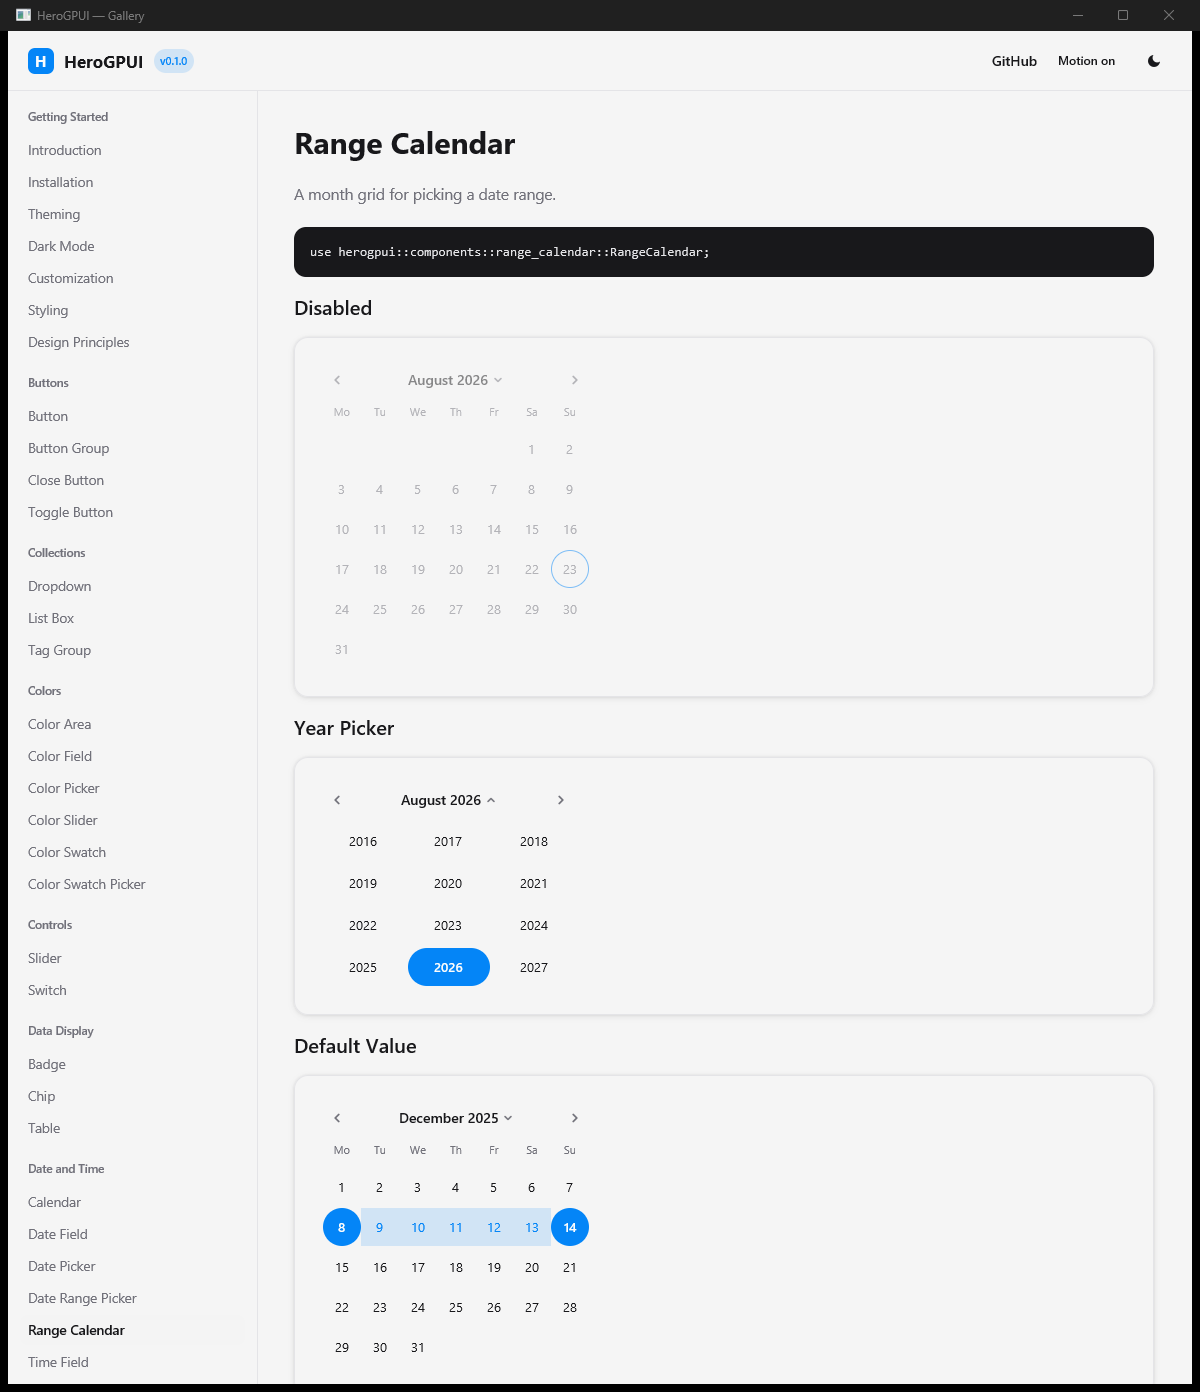
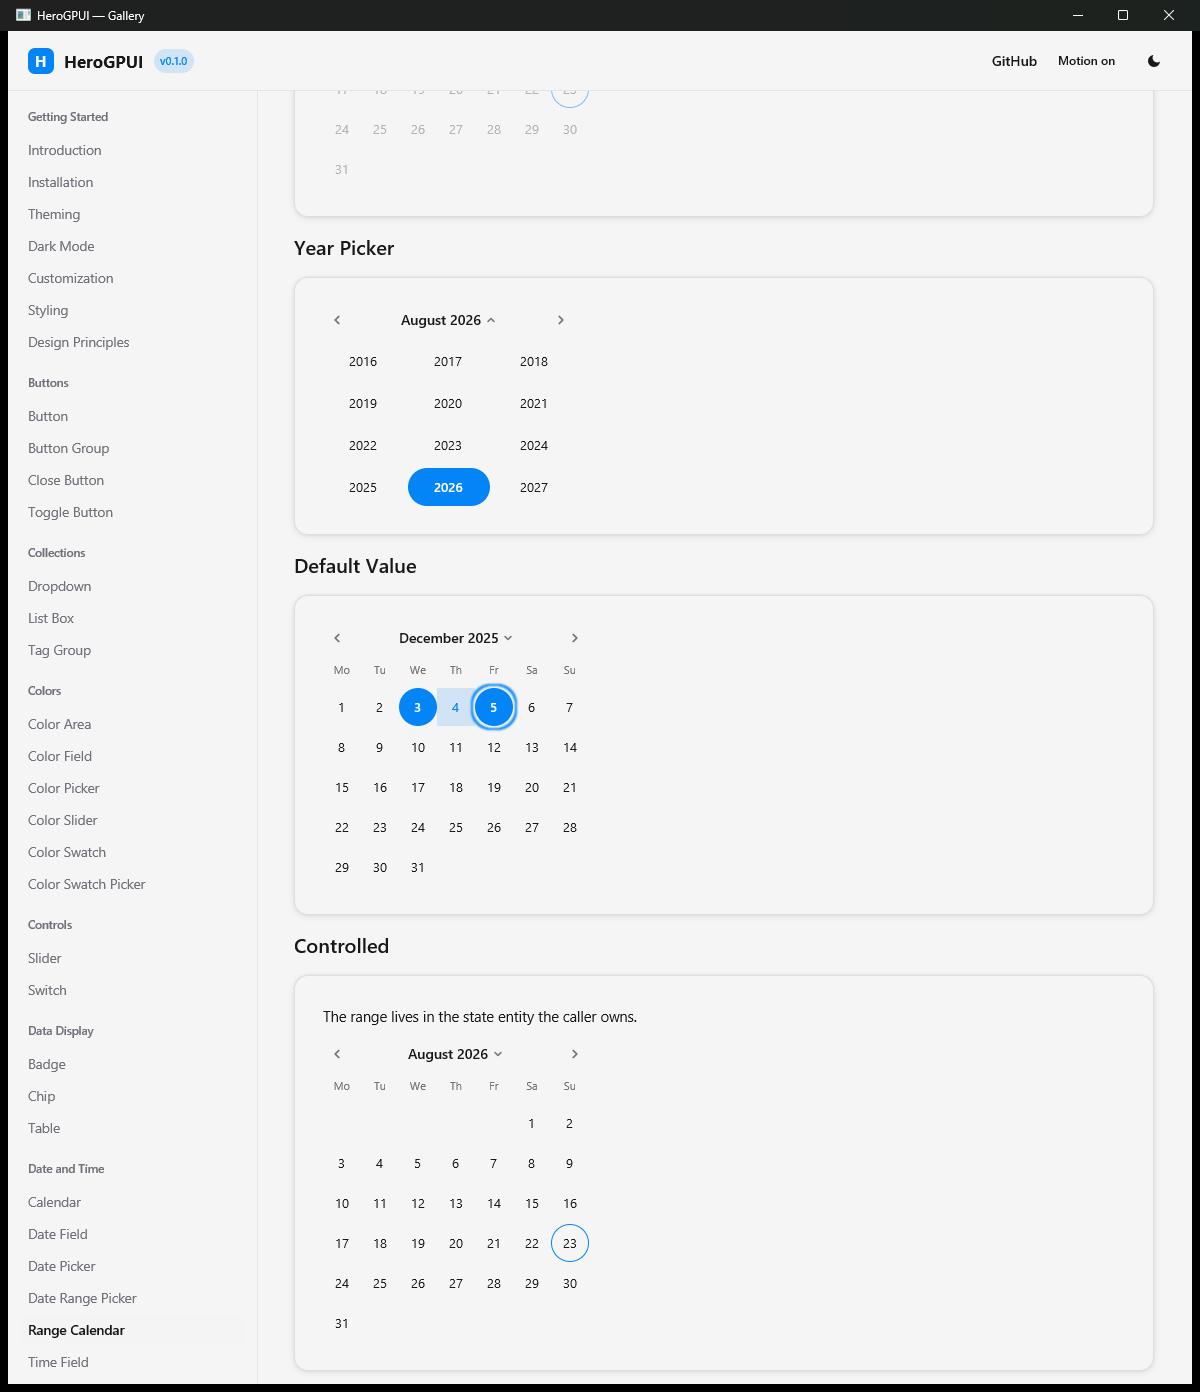
RangeCalendar answers the keyboard, and disabled controls leave the tab order
The RangeCalendar drew the focus ring but had no keys to move it. It has the
Calendar's now -- arrows by a day and a week, Page Up/Down by a month, Home and
End, and Enter picking: the first press sets the range's start, the second its
end, which is what a click already did. `month_step` is shared rather than
written twice.

Verified by driving it: click the 3rd, Right, Right, Enter, and the range reads
3-5 with the ring on the 5th.

Finding it needed a second fix first. Tabbing onto that page landed on the
*disabled* demo, because `track_focus` was applied whether or not the control
was disabled -- so the keyboard appeared broken while it was in fact focused on
something that cannot move. Every control gates it now: the two calendars, the
switch, the checkbox, the radio options, the tags, the accordion triggers, the
pagination pages, the tabs, the date picker trigger, the colour area, trigger
and swatches, and the OTP.

diff --git a/crates/herogpui-components/src/range_calendar.rs b/crates/herogpui-components/src/range_calendar.rs
@@ -13,7 +13,9 @@ use gpui::{
 use herogpui_theme::ActiveTheme;
 
 use crate::{
-    calendar::{days_from_civil, days_in_month, month_name, weekday_index, Date},
+    calendar::{
+        add_days, days_from_civil, days_in_month, month_name, month_step, weekday_index, Date,
+    },
     calendar_view::{self, PageBehavior, SelectionAlignment, VisibleDuration},
     date_constraints::{DateConstraints, Weekday},
     date_picker::DateRangeState,
@@ -237,6 +239,10 @@ struct Frame<'a> {
     today: Date,
     interactive: bool,
     base: &'a str,
+    /// The date wearing the focus ring: `focusedValue` when the caller controls
+    /// it, otherwise wherever the arrow keys have walked to. `None` while the
+    /// grid does not hold the keyboard.
+    focused: Option<Date>,
 }
 
 impl RangeCalendar {
@@ -318,7 +324,7 @@ impl RangeCalendar {
         // `.range-calendar__cell` takes `status-focused` -- a ring, not a border,
         // which would shrink the cell as the cursor arrived.
         let mut cell =
-            util::with_focus_ring(cell, self.focused_value == Some(date), true, Vec::new(), cx);
+            util::with_focus_ring(cell, frame.focused == Some(date), true, Vec::new(), cx);
 
         if !selectable {
             cell = cell.text_color(colors.muted);
@@ -501,6 +507,17 @@ impl RenderOnce for RangeCalendar {
             self.default_year_picker_open,
         );
 
+        // The grid is one tab stop with a cursor inside it, as the Calendar's is.
+        // `use_keyed_state` takes `cx` mutably, so both precede the theme.
+        let grid_focus =
+            util::tab_stop_handle(ElementId::Name(format!("{base}-focus").into()), window, cx);
+        let cursor = window.use_keyed_state(
+            ElementId::Name(format!("{base}-cursor").into()),
+            cx,
+            |_, _| None::<Date>,
+        );
+        let cursor_at = *cursor.read(cx);
+
         let colors = cx.colors();
         let layout = cx.layout();
         let first_day = self.constraints.first_day_of_week;
@@ -520,12 +537,21 @@ impl RenderOnce for RangeCalendar {
             ),
             _ => stored_anchor,
         };
+        // Taking the focus puts the ring where v3 would have focused -- the
+        // range's start, or today.
+        let ring_at = self
+            .focused_value
+            .or(cursor_at)
+            .or(start)
+            .or_else(|| Some(Date::today()))
+            .filter(|_| grid_focus.is_focused(window));
         let frame = Frame {
             start,
             preview_end,
             today: Date::today(),
             interactive: !self.is_disabled && !self.is_read_only,
             base: &base,
+            focused: ring_at,
         };
 
         let months = calendar_view::month_headings(self.duration, anchor);
@@ -654,7 +680,59 @@ impl RenderOnce for RangeCalendar {
             .flex()
             .flex_col()
             .gap(px(8.))
-            .text_color(colors.surface.foreground);
+            .text_color(colors.surface.foreground)
+            .when(!self.is_disabled && !self.is_read_only, |el| {
+                el.track_focus(&grid_focus)
+            });
+
+        // The same keys the Calendar answers, and Enter picks: the first press
+        // sets the range's start, the second its end, which is what `pick` does
+        // for a click.
+        if !self.is_disabled && !self.is_read_only {
+            let held = cursor;
+            let from_start = self.focused_value.or(start).unwrap_or_else(Date::today);
+            let state = self.state.clone();
+            let on_change = self.on_change.clone();
+            let on_focus = self.on_focus_change.clone();
+            let selectable = self.constraints.clone();
+            root = root.on_key_down(move |event, window, cx| {
+                let from = *held.read(cx);
+                let at = from.unwrap_or(from_start);
+                let key = event.keystroke.key.as_str();
+                if matches!(key, "enter" | "space") {
+                    if !selectable.allows(at) {
+                        return;
+                    }
+                    let (next_start, next_end) = state.update(cx, |s, cx| {
+                        s.pick(at);
+                        cx.notify();
+                        (s.start, s.end)
+                    });
+                    if let Some(cb) = &on_change {
+                        cb(next_start, next_end, window, cx);
+                    }
+                    return;
+                }
+                let next = match key {
+                    "left" => add_days(&at, -1),
+                    "right" => add_days(&at, 1),
+                    "up" => add_days(&at, -7),
+                    "down" => add_days(&at, 7),
+                    "pageup" => month_step(at, -1),
+                    "pagedown" => month_step(at, 1),
+                    "home" => Date::new(at.year, at.month, 1),
+                    "end" => Date::new(at.year, at.month, days_in_month(at.year, at.month)),
+                    _ => return,
+                };
+                held.update(cx, |v, cx| {
+                    *v = Some(next);
+                    cx.notify();
+                });
+                if let Some(cb) = &on_focus {
+                    cb(next, window, cx);
+                }
+            });
+        }
 
         if year_picker_open {
             root = root.w(crate::calendar::CALENDAR_WIDTH);

diff --git a/crates/herogpui-components/src/color_picker.rs b/crates/herogpui-components/src/color_picker.rs
@@ -579,7 +579,7 @@ impl RenderOnce for ColorArea {
         // Saturation left-to-right over the hue, brightness bottom-to-top.
         let mut area = div()
             .id(self.id.clone())
-            .track_focus(&area_focus)
+            .when(!self.is_disabled, |el| el.track_focus(&area_focus))
             .relative()
             .w(self.width)
             .h(self.height)
@@ -1618,7 +1618,10 @@ impl RenderOnce for ColorSwatchPicker {
                 .id(ElementId::Name(
                     format!("{:?}-swatch-{index}", self.id).into(),
                 ))
-                .when_some(swatch_focus.get(index), |c, handle| c.track_focus(handle))
+                .when_some(
+                    swatch_focus.get(index).filter(|_| !self.is_disabled),
+                    |c, handle| c.track_focus(handle),
+                )
                 .flex()
                 .items_center()
                 .justify_center()
@@ -1794,7 +1797,7 @@ impl RenderOnce for ColorPicker {
         // Trigger: swatch plus the hex value.
         let mut trigger = div()
             .id(ElementId::Name(format!("{base}-trigger").into()))
-            .track_focus(&trigger_focus)
+            .when(!self.is_disabled, |el| el.track_focus(&trigger_focus))
             .flex()
             .flex_row()
             .items_center()

diff --git a/crates/herogpui-components/src/tabs.rs b/crates/herogpui-components/src/tabs.rs
@@ -182,7 +182,10 @@ impl RenderOnce for Tabs {
                         .id(gpui::ElementId::Name(
                             format!("{base_id}-tab-{}", item.key).into(),
                         ))
-                        .when_some(tab_focus.get(index), |t, handle| t.track_focus(handle))
+                        .when_some(
+                            tab_focus.get(index).filter(|_| !self.is_disabled),
+                            |t, handle| t.track_focus(handle),
+                        )
                         .px(px(14.))
                         .py(px(6.))
                         .rounded(crate::util::control_radius(cx))
@@ -248,7 +251,10 @@ impl RenderOnce for Tabs {
                         .id(gpui::ElementId::Name(
                             format!("{base_id}-tab-{}", item.key).into(),
                         ))
-                        .when_some(tab_focus.get(index), |t, handle| t.track_focus(handle))
+                        .when_some(
+                            tab_focus.get(index).filter(|_| !self.is_disabled),
+                            |t, handle| t.track_focus(handle),
+                        )
                         .px(px(2.))
                         .pb(px(6.))
                         .text_size(px(14.))

diff --git a/crates/herogpui-components/src/calendar.rs b/crates/herogpui-components/src/calendar.rs
@@ -471,7 +471,7 @@ impl Calendar {
 
 /// `date` a month away, clamped to the target month's length -- 31 January plus
 /// a month is the end of February, not the 31st.
-fn month_step(date: Date, delta: i32) -> Date {
+pub(crate) fn month_step(date: Date, delta: i32) -> Date {
     let (year, month) = bump_month(date.year, date.month, delta);
     Date::new(year, month, date.day.min(days_in_month(year, month)))
 }
@@ -968,7 +968,11 @@ impl RenderOnce for Calendar {
             .flex_col()
             .gap(px(8.))
             .text_color(colors.surface.foreground)
-            .track_focus(&grid_focus);
+            // A disabled or read-only grid is not a tab stop: v3 gives it
+            // `pointer-events-none` and nothing to move.
+            .when(!self.is_disabled && !self.is_read_only, |el| {
+                el.track_focus(&grid_focus)
+            });
 
         // v3 drives a calendar from the keyboard: the arrows step a day and a
         // week, Page Up/Down a month, Home and End the ends of the month, and

diff --git a/crates/herogpui-components/src/pagination.rs b/crates/herogpui-components/src/pagination.rs
@@ -143,7 +143,10 @@ impl RenderOnce for Pagination {
                     let active = n == self.page;
                     let mut btn = gpui::div()
                         .id(gpui::ElementId::Name(format!("{base}-page-{n}").into()))
-                        .when_some(page_focus.get(n), |b, handle| b.track_focus(handle))
+                        .when_some(
+                            page_focus.get(n).filter(|_| !self.is_disabled),
+                            |b, handle| b.track_focus(handle),
+                        )
                         .flex()
                         .items_center()
                         .justify_center()

diff --git a/crates/herogpui-components/src/accordion.rs b/crates/herogpui-components/src/accordion.rs
@@ -238,7 +238,9 @@ impl RenderOnce for Accordion {
             let header_focus = trigger_focus.get(i);
             let mut header = gpui::div()
                 .id(gpui::ElementId::Name(format!("acc-{}", item.key).into()))
-                .when_some(header_focus, |h, handle| h.track_focus(handle))
+                .when_some(header_focus.filter(|_| !item_disabled), |h, handle| {
+                    h.track_focus(handle)
+                })
                 .flex()
                 .items_center()
                 .justify_between()

diff --git a/crates/herogpui-components/src/radio_group.rs b/crates/herogpui-components/src/radio_group.rs
@@ -263,7 +263,10 @@ impl RenderOnce for RadioGroup {
                 .id(gpui::ElementId::Name(
                     format!("{}-opt-{i}", element_id_name(&self.id)).into(),
                 ))
-                .when_some(option_focus.get(i), |r, handle| r.track_focus(handle))
+                .when_some(
+                    option_focus.get(i).filter(|_| !self.is_disabled),
+                    |r, handle| r.track_focus(handle),
+                )
                 .flex()
                 .items_center()
                 .gap(gap)

diff --git a/crates/herogpui-components/src/tag_group.rs b/crates/herogpui-components/src/tag_group.rs
@@ -237,7 +237,9 @@ impl RenderOnce for TagGroup {
 
             let mut chip = div()
                 .id(ElementId::Name(format!("{:?}-tag-{index}", self.id).into()))
-                .when_some(tag_focus.get(index), |c, handle| c.track_focus(handle))
+                .when_some(tag_focus.get(index).filter(|_| !disabled), |c, handle| {
+                    c.track_focus(handle)
+                })
                 .flex()
                 .flex_row()
                 .items_center()

diff --git a/crates/herogpui-components/src/input_otp.rs b/crates/herogpui-components/src/input_otp.rs
@@ -356,7 +356,8 @@ impl RenderOnce for InputOTP {
             } else {
                 gpui::CursorStyle::IBeam
             })
-            .track_focus(&focused_handle)
+            // A disabled field is not a tab stop.
+            .when(!self.is_disabled, |el| el.track_focus(&focused_handle))
             .key_context("InputOTP")
             .on_mouse_down(gpui::MouseButton::Left, {
                 let fh = focused_handle.clone();

diff --git a/crates/herogpui-components/src/date_picker.rs b/crates/herogpui-components/src/date_picker.rs
@@ -220,7 +220,7 @@ impl RenderOnce for DatePicker {
             .id(gpui::ElementId::Name(
                 format!("dp-{}", self.state.entity_id().as_u64()).into(),
             ))
-            .track_focus(&trigger_focus)
+            .when(!self.is_disabled, |el| el.track_focus(&trigger_focus))
             .flex()
             .items_center()
             .justify_between()

diff --git a/crates/herogpui-components/src/checkbox.rs b/crates/herogpui-components/src/checkbox.rs
@@ -334,7 +334,7 @@ impl RenderOnce for Checkbox {
 
         let row = gpui::div()
             .id(self.id.clone())
-            .track_focus(&focus_handle)
+            .when(!self.is_disabled, |el| el.track_focus(&focus_handle))
             .flex()
             .items_center()
             // `.checkbox__content` is `gap-3`.

diff --git a/crates/herogpui-components/src/switch.rs b/crates/herogpui-components/src/switch.rs
@@ -275,7 +275,7 @@ impl RenderOnce for Switch {
 
         let mut track = gpui::div()
             .id(self.id.clone())
-            .track_focus(&focus_handle)
+            .when(!self.is_disabled, |el| el.track_focus(&focus_handle))
             .relative()
             .w(w)
             .h(h)
